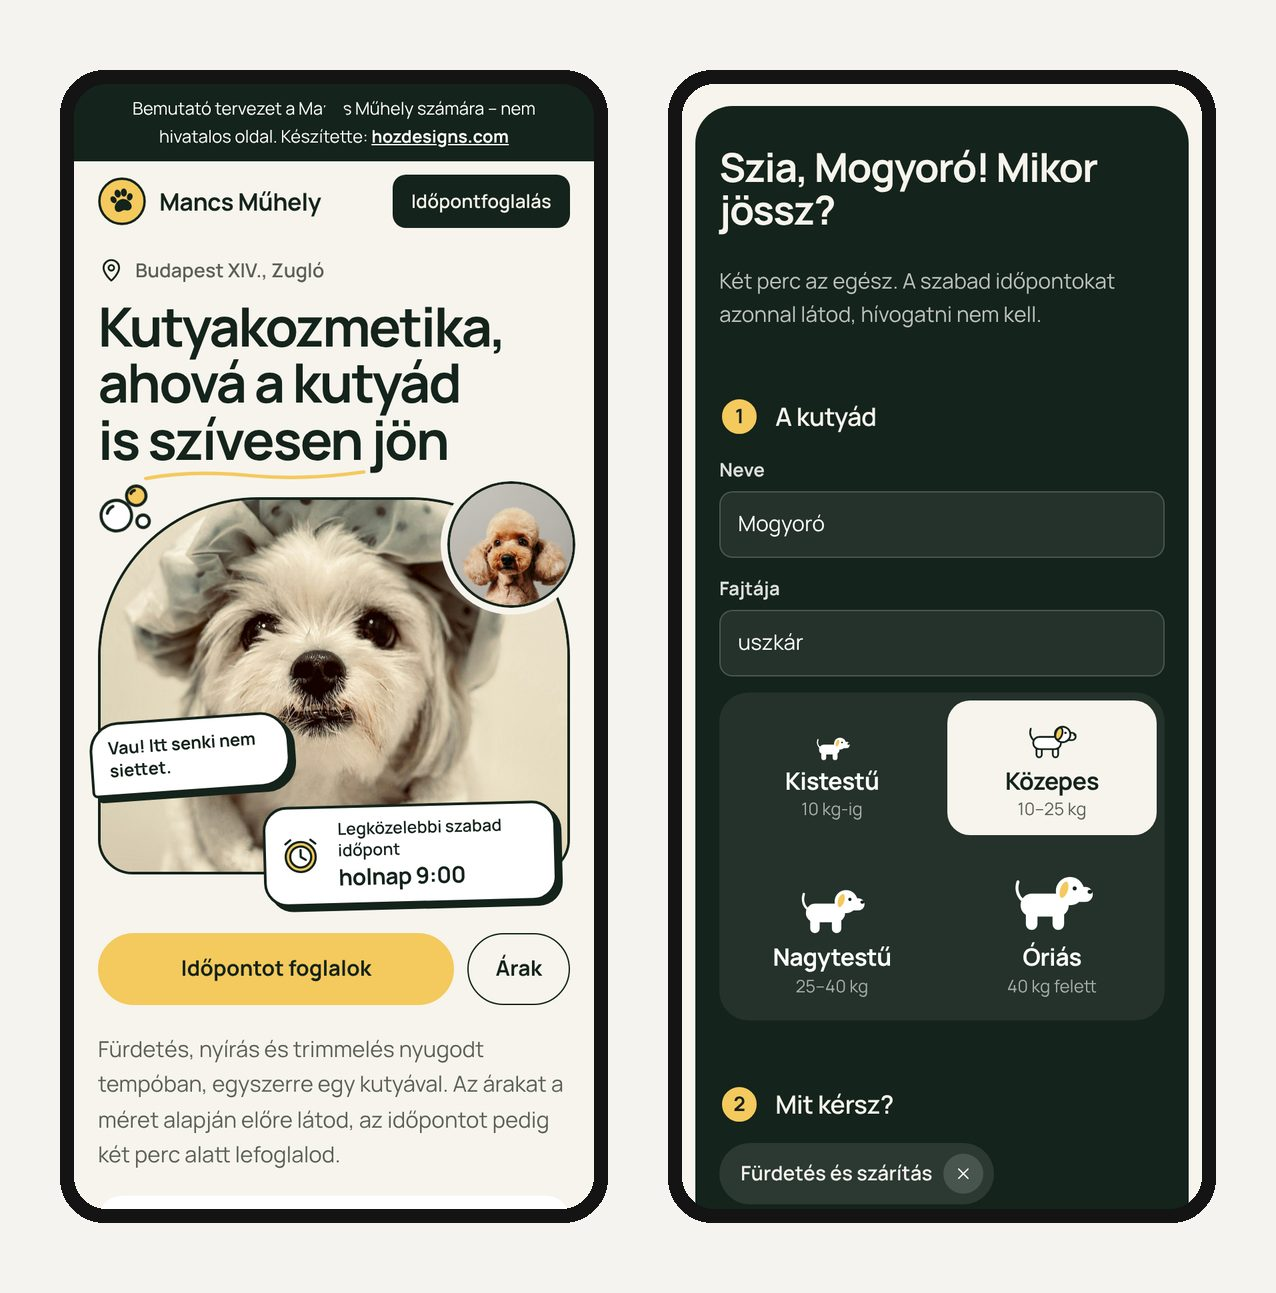
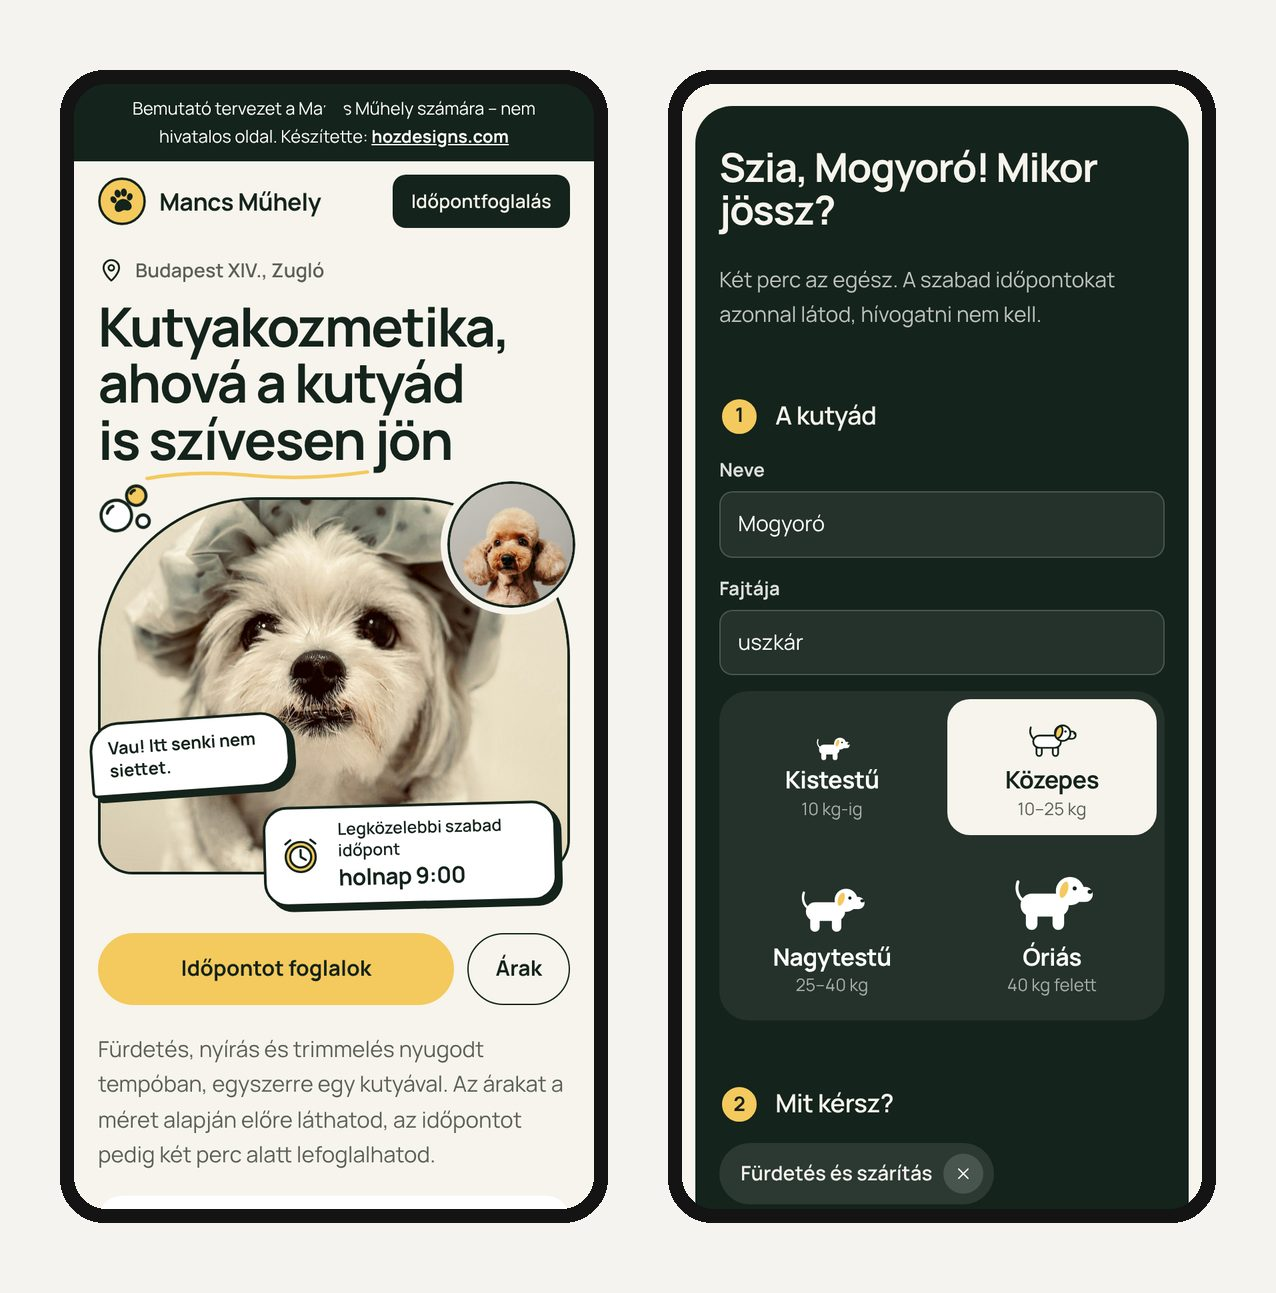
Kutyakozmetika: szolidabb főcím, egy vonalban álló adatsor, hívható telefonszám, láthatod/lefoglalhatod
Claude-Session: https://claude.ai/code/session_016Run1nACTgNtgLbjaBZxC9

diff --git a/minta/teszt-kutyakozmetika/index.html b/minta/teszt-kutyakozmetika/index.html
@@ -149,7 +149,7 @@ footer b{color:var(--ink)}
 .hero{display:grid;grid-template-columns:minmax(0,1.08fr) minmax(0,.92fr);gap:56px;align-items:center;padding-top:28px;padding-bottom:72px}
 .hero .loc{display:flex;align-items:center;gap:8px;font-weight:600;color:var(--ink2);margin-bottom:22px}
 .hero .loc .ico{color:var(--aci,var(--acc))}
-.hero h1{font-size:clamp(42px,6.3vw,86px);font-weight:700;letter-spacing:-.035em;line-height:1.02;text-wrap:balance}
+.hero h1{font-size:clamp(40px,4.9vw,66px);font-weight:700;letter-spacing:-.03em;line-height:1.06;text-wrap:balance}
 .hero .lead{font-size:clamp(17px,1.5vw,20px);color:var(--ink2);max-width:46ch;margin-top:24px}
 .hero .cta{display:flex;flex-wrap:wrap;gap:12px;margin-top:32px}
 .hero .cta .btn{min-height:56px;padding:14px 28px;font-size:17px}
@@ -540,6 +540,11 @@ html{overflow-x:hidden}
   .hero .meta>*{padding:12px 0;border-top:1px solid var(--line)}.hero .meta>*:first-child{border-top:0}
 }
 @media (max-width:640px){.hero{align-items:stretch}.hpic .say{bottom:22%}}
+.hero .meta{gap:10px 20px;font-size:14.5px}
+.hero .meta>*{display:inline-flex;align-items:center;gap:8px;white-space:nowrap;color:var(--ink);text-decoration:none}
+.hero .meta a:hover{text-decoration:underline}
+.hero .meta .dot{margin:0 4.5px;flex:none}
+.hero .meta .ico{flex:none}
 </style>
 </head>
 <body class="k-kutya s-alap t-alap">
@@ -553,9 +558,9 @@ html{overflow-x:hidden}
   <div>
     <p class="loc"><svg class="ico" aria-hidden="true"><use href="#i-pin"/></svg>Budapest XIV., Zugló</p>
     <h1>Kutyakozmetika, ahová a kutyád is <span class="scr">szívesen<svg class="dd" viewBox="0 0 200 20" preserveAspectRatio="none" aria-hidden="true"><use href="#d-scribble"/></svg></span> jön</h1>
-    <p class="lead">Fürdetés, nyírás és trimmelés nyugodt tempóban, egyszerre egy kutyával. Az árakat a méret alapján előre látod, az időpontot pedig két perc alatt lefoglalod.</p>
+    <p class="lead">Fürdetés, nyírás és trimmelés nyugodt tempóban, egyszerre egy kutyával. Az árakat a méret alapján előre láthatod, az időpontot pedig két perc alatt lefoglalhatod.</p>
     <div class="cta"><a class="btn" href="#foglalas">Időpontot foglalok</a><a class="btn line" href="#arak">Árak</a></div>
-    <div class="meta"><span><i class="dot"></i><span data-open></span></span><span><svg class="ico" aria-hidden="true"><use href="#i-phone"/></svg>+36 30 123 4567</span><span><svg class="ico" aria-hidden="true"><use href="#i-car"/></svg>Ingyenes parkolás az utcában</span></div>
+    <div class="meta"><span><i class="dot"></i><span data-open></span></span><a href="tel:+36301234567"><svg class="ico" aria-hidden="true"><use href="#i-phone"/></svg>+36 30 123 4567</a><span><svg class="ico" aria-hidden="true"><use href="#i-car"/></svg>Ingyenes parkolás az utcában</span></div>
   </div>
   <div class="hpic"><div class="a"><img src="img/u49.jpg" alt="Fürdetés után, törölközőben" width="1200" height="1718"></div><div class="b"><img src="img/u15.jpg" alt="Uszkár nyírás után" width="1200" height="1800"></div><p class="say">Vau! Itt senki nem siettet.</p><a class="spin" href="#foglalas" aria-label="Időpontfoglalás"><svg viewBox="0 0 200 200" aria-hidden="true"><defs><path id="spinp" d="M100 100m-74 0a74 74 0 1 1 148 0a74 74 0 1 1-148 0"/></defs><text><textPath href="#spinp" textLength="455" lengthAdjust="spacing">IDŐPONT ONLINE • KÉT PERC ALATT •</textPath></text></svg><svg class="dd" viewBox="0 0 48 48" aria-hidden="true"><use href="#d-dogface"/></svg></a><p class="next"><svg class="dd" viewBox="0 0 48 48" aria-hidden="true"><use href="#d-clock"/></svg><span>Legközelebbi szabad időpont<b data-next></b></span></p><svg class="dd fl f1" viewBox="0 0 48 48" aria-hidden="true"><use href="#d-bubbles"/></svg><svg class="dd fl f2" viewBox="0 0 48 48" aria-hidden="true"><use href="#d-bone"/></svg><svg class="dd fl f3" viewBox="0 0 48 48" aria-hidden="true"><use href="#d-star"/></svg></div>
 </section>
